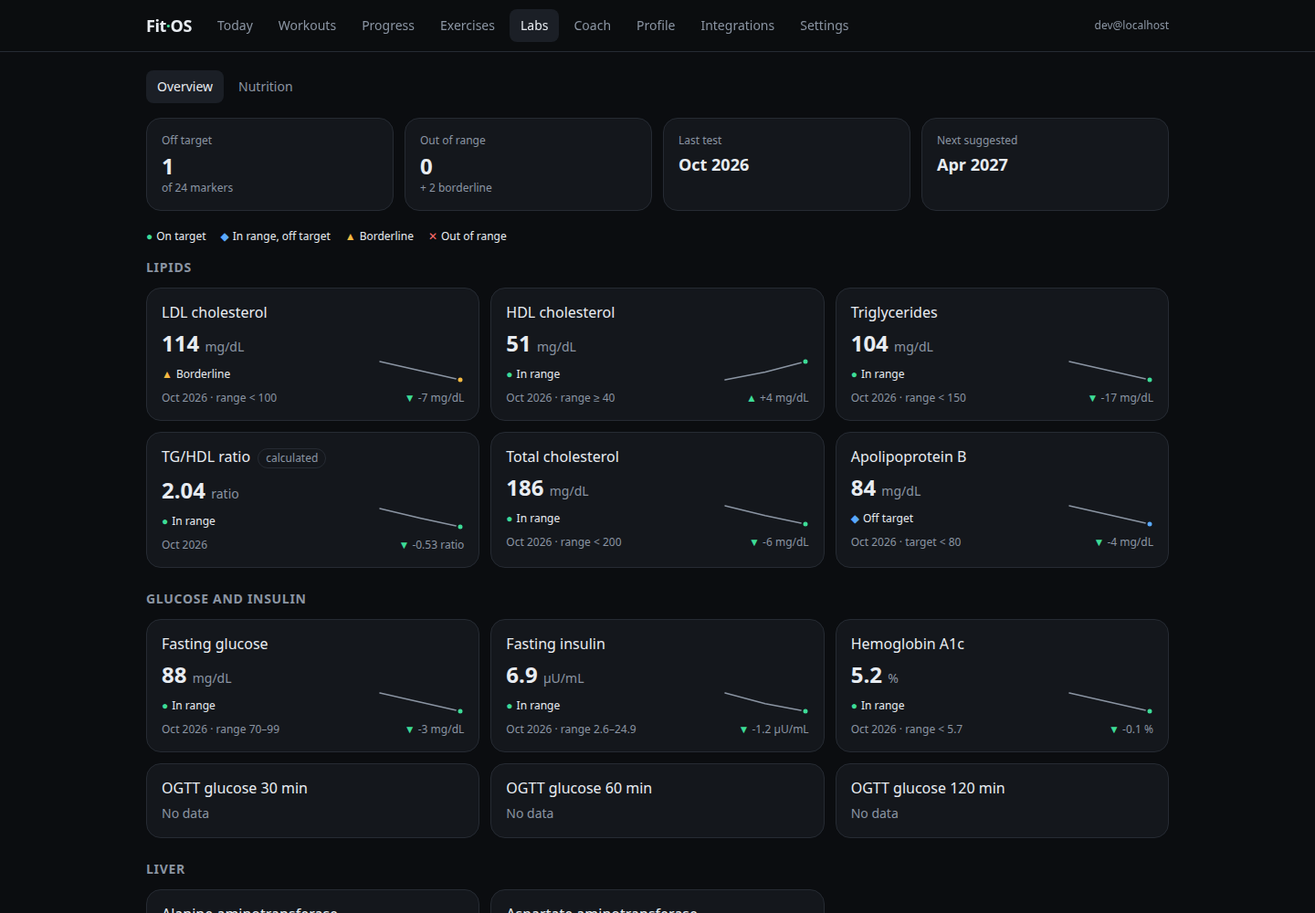
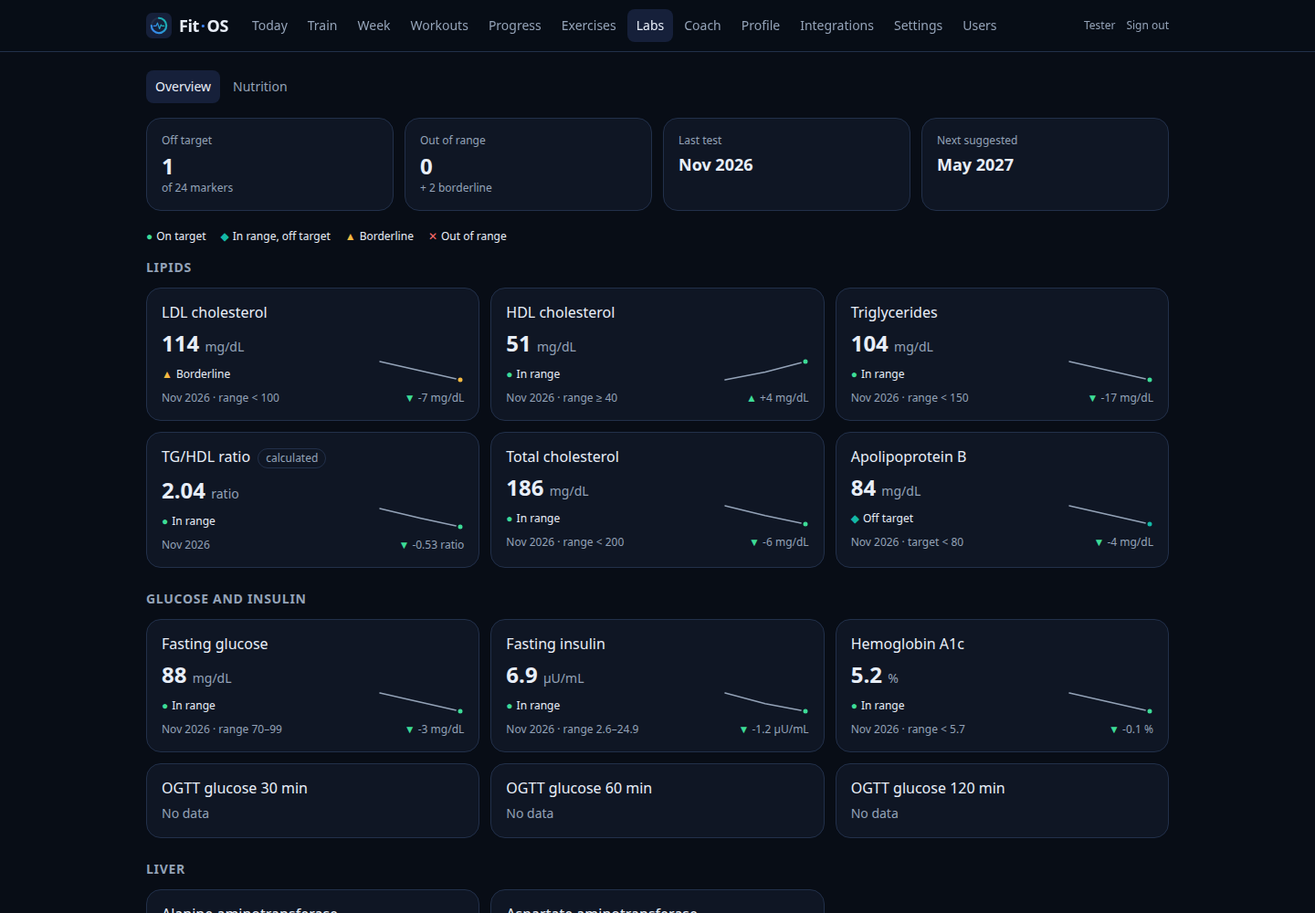
feat(brand): new mark (the recovery ring with a pulse) and the "Ocean" palette
- app/fitos/web/static/icons/icon.svg is the mark; docs/images/icon.html renders the app icons (full-bleed,
  inside the maskable safe zone) and the WhatsApp group picture from it. Header, login and favicon use it.
- Theme: blue brand (#3b82f6), teal second (#14b8a6, also "info"), deep navy surfaces. Green moves to a
  `good` token and keeps every status meaning: recovery's green band, labs "on target", improvements,
  "connected", muscles inside the weekly target.
- Banner and README screenshots re-rendered (synthetic demo, English).

diff --git a/docs/images/icon.html b/docs/images/icon.html
@@ -1,55 +1,33 @@
 <!doctype html>
 <!-- Source of the WhatsApp group picture (docs/images/group-icon.png, with the wordmark) and the app icons
-     (app/fitos/web/static/icons/*.png, "#mark": symbol only). Render: see docs/development.md#icons -->
+     (app/fitos/web/static/icons/*.png, "#mark": the symbol full-bleed, safe for maskable icons).
+     The symbol is app/fitos/web/static/icons/icon.svg. Render: see docs/development.md#icons -->
 <html><head><meta charset="utf-8"><style>
-  :root{--bg:#0b0d10;--panel:#14171c;--line:#262b33;--ink:#e8ecf1;--mute:#8b95a3;--accent:#3ddc97;--info:#5aa9ff}
+  :root{--bg:#080d16;--panel:#0f1624;--panel2:#16203a;--line:#22304a;--ink:#e8eef8;--mute:#94a3b8;--accent:#3b82f6;--teal:#14b8a6}
   *{box-sizing:border-box;margin:0}
   html,body{width:100vw;height:100vh;overflow:hidden;background:var(--bg)}
   body{font-family:"Inter","Segoe UI",Roboto,ui-sans-serif,system-ui,sans-serif;color:var(--ink);position:relative;
        display:grid;place-items:center}
   .glow{position:absolute;border-radius:50%;filter:blur(9vw)}
-  .g1{width:70vw;height:70vw;background:var(--accent);opacity:.22;left:15vw;top:8vw}
-  .g2{width:50vw;height:40vw;background:var(--info);opacity:.14;right:-12vw;bottom:-14vw}
+  .g1{width:70vw;height:70vw;background:var(--accent);opacity:.24;left:15vw;top:6vw}
+  .g2{width:50vw;height:40vw;background:var(--teal);opacity:.16;right:-12vw;bottom:-14vw}
   .grid{position:absolute;inset:0;background-image:linear-gradient(var(--line) 1px,transparent 1px),
         linear-gradient(90deg,var(--line) 1px,transparent 1px);background-size:5vw 5vw;opacity:.35;
         mask-image:radial-gradient(circle at 50% 50%,#000 25%,transparent 62%)}
-  .ring{position:absolute;width:76vw;height:76vw;border-radius:50%;border:.6vw solid rgba(61,220,151,.18)}
-  .stack{position:relative;display:flex;flex-direction:column;align-items:center;gap:2.4vw;margin-top:-2vw}
-  svg{width:62vw;height:auto;filter:drop-shadow(0 1.5vw 3vw rgba(0,0,0,.55))}
+  .stack{position:relative;display:flex;flex-direction:column;align-items:center;gap:2.6vw;margin-top:-2vw}
+  img{width:46vw;height:46vw;filter:drop-shadow(0 1.5vw 3vw rgba(0,0,0,.55))}
   .word{font-size:13.5vw;font-weight:800;letter-spacing:-.5vw;line-height:1}
-  .word span{color:var(--accent)}
+  .word span{background:linear-gradient(90deg,var(--accent),var(--teal));-webkit-background-clip:text;color:transparent}
   .sub{font-size:3.6vw;font-weight:600;letter-spacing:1.1vw;color:var(--mute);margin-top:-.4vw}
-  body.mark svg{width:72vw}
-  body.mark .word,body.mark .sub{display:none}
-  body.mark .ring{width:90vw;height:90vw}
+  /* #mark: the icon itself, full-bleed (the OS rounds or masks it) */
+  body.mark{background:#16203a}
+  body.mark .glow,body.mark .grid,body.mark .word,body.mark .sub{display:none}
+  body.mark img{position:fixed;left:50%;top:50%;width:112vw;height:112vw;transform:translate(-50%,-50%);filter:none}
 </style></head>
 <body>
-  <div class="glow g1"></div><div class="glow g2"></div><div class="grid"></div><div class="ring"></div>
+  <div class="glow g1"></div><div class="glow g2"></div><div class="grid"></div>
   <div class="stack">
-    <svg viewBox="0 0 240 120" aria-hidden="true">
-      <defs>
-        <linearGradient id="plate" x1="0" y1="0" x2="0" y2="1">
-          <stop offset="0" stop-color="#5df0b0"/><stop offset="1" stop-color="#22b877"/>
-        </linearGradient>
-        <linearGradient id="bar" x1="0" y1="0" x2="0" y2="1">
-          <stop offset="0" stop-color="#e8ecf1"/><stop offset="1" stop-color="#9aa4b1"/>
-        </linearGradient>
-      </defs>
-      <!-- bar -->
-      <rect x="40" y="54" width="160" height="12" rx="6" fill="url(#bar)"/>
-      <!-- plates, left and right -->
-      <rect x="14" y="22" width="22" height="76" rx="7" fill="url(#plate)"/>
-      <rect x="38" y="34" width="14" height="52" rx="5" fill="url(#plate)"/>
-      <rect x="4" y="44" width="10" height="32" rx="4" fill="#22b877"/>
-      <rect x="204" y="22" width="22" height="76" rx="7" fill="url(#plate)"/>
-      <rect x="188" y="34" width="14" height="52" rx="5" fill="url(#plate)"/>
-      <rect x="226" y="44" width="10" height="32" rx="4" fill="#22b877"/>
-      <!-- pulse over the bar -->
-      <polyline points="62,60 92,60 102,40 114,82 126,30 138,74 148,60 178,60" fill="none"
-                stroke="#0b0d10" stroke-width="11" stroke-linejoin="round" stroke-linecap="round"/>
-      <polyline points="62,60 92,60 102,40 114,82 126,30 138,74 148,60 178,60" fill="none"
-                stroke="#3ddc97" stroke-width="5.5" stroke-linejoin="round" stroke-linecap="round"/>
-    </svg>
+    <img src="../../app/fitos/web/static/icons/icon.svg" alt="">
     <div class="word">Fit<span>·</span>OS</div>
     <div class="sub">PERSONAL TRAINER</div>
   </div>

diff --git a/docs/images/banner.html b/docs/images/banner.html
@@ -1,7 +1,7 @@
 <!doctype html>
 <!-- Source of docs/images/banner.png. Render: see docs/development.md#banner -->
 <html><head><meta charset="utf-8"><style>
-  :root{--bg:#0b0d10;--panel:#14171c;--panel2:#1b1f26;--line:#262b33;--ink:#e8ecf1;--mute:#8b95a3;--accent:#3ddc97;--warn:#f5b942;--info:#5aa9ff;--wa:#1f3b2f}
+  :root{--bg:#080d16;--panel:#0f1624;--panel2:#16203a;--line:#22304a;--ink:#e8eef8;--mute:#94a3b8;--accent:#3b82f6;--warn:#f5b942;--info:#14b8a6;--wa:#1f3b2f}
   *{box-sizing:border-box;margin:0}
   html,body{width:1600px;height:620px;background:var(--bg);overflow:hidden}
   body{font-family:"Inter","Segoe UI",Roboto,ui-sans-serif,system-ui,sans-serif;color:var(--ink);position:relative}
@@ -10,8 +10,9 @@
   .g2{width:600px;height:420px;background:var(--info);right:-120px;bottom:-260px;opacity:.16}
   .grid{position:absolute;inset:0;background-image:linear-gradient(var(--line) 1px,transparent 1px),linear-gradient(90deg,var(--line) 1px,transparent 1px);background-size:40px 40px;opacity:.25;mask-image:radial-gradient(ellipse at 30% 50%,#000 20%,transparent 75%)}
   .left{position:absolute;left:90px;top:110px;width:660px}
-  .logo{font-size:112px;font-weight:800;letter-spacing:-4px;line-height:1}
-  .logo span{color:var(--accent)}
+  .logo{font-size:112px;font-weight:800;letter-spacing:-4px;line-height:1;display:flex;align-items:center;gap:26px}
+  .logo img{width:120px;height:120px;filter:drop-shadow(0 12px 30px rgba(0,0,0,.5))}
+  .logo span{background:linear-gradient(90deg,var(--accent),var(--info));-webkit-background-clip:text;color:transparent}
   .tag{font-size:34px;font-weight:600;margin-top:22px;line-height:1.25}
   .sub{font-size:22px;color:var(--mute);margin-top:18px;line-height:1.45}
   .chips{display:flex;gap:10px;margin-top:30px;flex-wrap:wrap}
@@ -46,7 +47,7 @@
   <div class="glow g1"></div><div class="glow g2"></div><div class="grid"></div>
 
   <div class="left">
-    <div class="logo">Fit<span>·</span>OS</div>
+    <div class="logo"><img src="../../app/fitos/web/static/icons/icon.svg" alt=""><div>Fit<span>·</span>OS</div></div>
     <div class="tag">Your gym coach lives in a WhatsApp group.</div>
     <div class="sub">Today's plan, every set logged, a swap when the machine is busy, and a dashboard for progress and lab results. Self-hosted.</div>
     <div class="chips">
@@ -74,11 +75,11 @@
     <div class="h2">Bench press · e1RM</div>
     <div class="big">92 kg<small>+6.5 in 8 wk</small></div>
     <svg width="356" height="110" viewBox="0 0 356 110">
-      <defs><linearGradient id="a" x1="0" x2="0" y1="0" y2="1"><stop offset="0" stop-color="#3ddc97" stop-opacity=".35"/><stop offset="1" stop-color="#3ddc97" stop-opacity="0"/></linearGradient></defs>
-      <line x1="0" y1="100" x2="356" y2="100" stroke="#262b33"/><line x1="0" y1="55" x2="356" y2="55" stroke="#262b33" stroke-dasharray="3 5"/>
+      <defs><linearGradient id="a" x1="0" x2="0" y1="0" y2="1"><stop offset="0" stop-color="#3b82f6" stop-opacity=".35"/><stop offset="1" stop-color="#3b82f6" stop-opacity="0"/></linearGradient></defs>
+      <line x1="0" y1="100" x2="356" y2="100" stroke="#22304a"/><line x1="0" y1="55" x2="356" y2="55" stroke="#22304a" stroke-dasharray="3 5"/>
       <path d="M0 92 L44 88 L88 84 L132 86 L176 72 L220 66 L264 58 L308 44 L352 30 L352 100 L0 100Z" fill="url(#a)"/>
-      <path d="M0 92 L44 88 L88 84 L132 86 L176 72 L220 66 L264 58 L308 44 L352 30" fill="none" stroke="#3ddc97" stroke-width="3" stroke-linejoin="round" stroke-linecap="round"/>
-      <circle cx="352" cy="30" r="6" fill="#3ddc97" stroke="#14171c" stroke-width="3"/>
+      <path d="M0 92 L44 88 L88 84 L132 86 L176 72 L220 66 L264 58 L308 44 L352 30" fill="none" stroke="#3b82f6" stroke-width="3" stroke-linejoin="round" stroke-linecap="round"/>
+      <circle cx="352" cy="30" r="6" fill="#3b82f6" stroke="#14171c" stroke-width="3"/>
     </svg>
     <div class="rings">
       <div class="ring"><div class="k">This week</div><div class="v">3 / 4</div></div>

diff --git a/app/fitos/web/templates/base.html b/app/fitos/web/templates/base.html
@@ -3,8 +3,9 @@
 <head>
   <meta charset="utf-8">
   <meta name="viewport" content="width=device-width, initial-scale=1, viewport-fit=cover">
-  <meta name="theme-color" content="#0b0d10">
+  <meta name="theme-color" content="#080d16">
   <title>{% block title %}{{ tab_label or "Fit-OS" }}{% endblock %} · Fit-OS</title>
+  <link rel="icon" type="image/svg+xml" href="/static/icons/icon.svg">
   <link rel="icon" type="image/png" href="/static/icons/icon-192.png">
   <!-- Installable from the phone's browser (Add to Home Screen): standalone window, own icon -->
   <link rel="manifest" href="/static/manifest.webmanifest" crossorigin="use-credentials">
@@ -17,16 +18,19 @@
   <script src="/static/vendor/htmx.min.js" defer></script>
   <style type="text/tailwindcss">
     @theme {
-      --color-bg: #0b0d10;
-      --color-panel: #14171c;
-      --color-panel2: #1b1f26;
-      --color-line: #262b33;
-      --color-ink: #e8ecf1;
-      --color-mute: #8b95a3;
-      --color-accent: #3ddc97;
+      /* "Ocean": blue brand, teal second; green stays only as the "good" status color */
+      --color-bg: #080d16;
+      --color-panel: #0f1624;
+      --color-panel2: #16203a;
+      --color-line: #22304a;
+      --color-ink: #e8eef8;
+      --color-mute: #94a3b8;
+      --color-accent: #3b82f6;
+      --color-teal: #14b8a6;
+      --color-good: #3ddc97;
       --color-warn: #f5b942;
       --color-bad: #ff6b6b;
-      --color-info: #5aa9ff;
+      --color-info: #14b8a6;
     }
     @layer base {
       body { @apply bg-bg text-ink antialiased; font-family: ui-sans-serif, system-ui, -apple-system, "Segoe UI", Roboto, sans-serif; }
@@ -36,7 +40,7 @@
     .card { @apply bg-panel border border-line rounded-2xl p-4; }
     .h2 { @apply text-sm font-semibold uppercase tracking-wider text-mute mb-3; }
     .btn { @apply inline-flex items-center gap-2 rounded-xl px-3 py-2 text-sm font-medium bg-panel2 border border-line hover:border-accent/60 transition; }
-    .btn-accent { @apply bg-accent text-black border-accent hover:brightness-110; }
+    .btn-accent { @apply bg-accent text-white border-accent hover:brightness-110; }
     .chip { @apply inline-flex items-center rounded-full px-2 py-0.5 text-xs border border-line text-mute; }
     .input { @apply w-full rounded-xl bg-panel2 border border-line px-3 py-2 text-sm focus:outline-none focus:border-accent; }
     .label { @apply block text-xs text-mute mb-1; }
@@ -54,7 +58,7 @@
   {% if not bare %}
   <header class="sticky top-0 z-30 bg-bg/90 backdrop-blur border-b border-line">
     <div class="max-w-6xl mx-auto px-4 flex items-center gap-4 h-14">
-      <a href="/" class="font-bold tracking-tight text-lg">Fit<span class="text-accent">·</span>OS</a>
+      <a href="/" class="flex items-center gap-2 font-bold tracking-tight text-lg"><img src="/static/icons/icon.svg" alt="" class="w-7 h-7">Fit<span class="text-accent -mx-1.5">·</span>OS</a>
       <nav class="tabnav hidden md:flex gap-0.5 overflow-x-auto min-w-0 flex-1">
         {% for key, label, href in tabs %}
           <a href="{{ href }}" class="{% if key == tab %}on{% endif %}">{{ label }}</a>

diff --git a/app/fitos/web/templates/rest.html b/app/fitos/web/templates/rest.html
@@ -6,7 +6,7 @@
     <div class="text-xl font-bold num">{{ t.now|num if t.now is not none else '—' }}<span class="text-sm text-mute font-normal"> {{ unit }}</span></div>
     {% if t.pct is not none %}
     {% set up = t.pct > 0 %}{% set good = (up and good_up) or (not up and not good_up) %}
-    <div class="text-xs num {% if t.pct|abs < 3 %}text-mute{% elif good %}text-accent{% else %}text-bad{% endif %}">{{ '▲' if up else '▼' }} {{ t.pct|abs|int }} % <span class="text-mute">{{ _("vs tus 60 días ({n})", n=t.base|num) }}</span></div>
+    <div class="text-xs num {% if t.pct|abs < 3 %}text-mute{% elif good %}text-good{% else %}text-bad{% endif %}">{{ '▲' if up else '▼' }} {{ t.pct|abs|int }} % <span class="text-mute">{{ _("vs tus 60 días ({n})", n=t.base|num) }}</span></div>
     {% endif %}
   </div>
 {%- endmacro %}
@@ -55,7 +55,7 @@
       <div class="rounded-xl bg-panel2 px-3 py-2">
         <div class="text-[11px] text-mute">{{ _(st.label) }}</div>
         <div class="text-lg font-bold num">{{ st.now|num }}<span class="text-xs text-mute font-normal"> {{ st.unit }}</span></div>
-        {% if st.prev is not none %}<div class="text-[11px] num {% if st.trend == 'good' %}text-accent{% elif st.trend == 'bad' %}text-warn{% else %}text-mute{% endif %}">{% if st.trend %}{{ '▲' if st.up else '▼' }} {% endif %}{{ _("antes {v}", v=st.prev|num) }}</div>{% endif %}
+        {% if st.prev is not none %}<div class="text-[11px] num {% if st.trend == 'good' %}text-good{% elif st.trend == 'bad' %}text-warn{% else %}text-mute{% endif %}">{% if st.trend %}{{ '▲' if st.up else '▼' }} {% endif %}{{ _("antes {v}", v=st.prev|num) }}</div>{% endif %}
       </div>
       {% endfor %}
     </div>
@@ -158,12 +158,12 @@
 (function () {
   const D = {{ charts_json|safe }};
   const css = getComputedStyle(document.documentElement);
-  const FALLBACK = { accent: '#3ddc97', bad: '#ff6b6b', info: '#5aa9ff', warn: '#f5b942', ink: '#e8ecf1', mute: '#8b95a3', line: '#262b33', panel: '#14171c', panel2: '#1b1f26' };
+  const FALLBACK = { accent: '#3b82f6', good: '#3ddc97', bad: '#ff6b6b', info: '#14b8a6', warn: '#f5b942', ink: '#e8eef8', mute: '#94a3b8', line: '#22304a', panel: '#0f1624', panel2: '#16203a' };
   const c = n => css.getPropertyValue('--color-' + n).trim() || FALLBACK[n];
   const MONTHS = {{ months_short()|tojson }};
   const dm = iso => { const [y, m, d] = iso.split('-').map(Number); return d + ' ' + MONTHS[m - 1]; };
   const ym = (iso, i, all) => { const [y, m] = iso.split('-').map(Number); const first = i === 0 || all[i - 1].slice(0, 4) !== iso.slice(0, 4); return MONTHS[m - 1] + (first ? ' ' + String(y).slice(2) : ''); };
-  const BAND = { green: c('accent'), yellow: c('warn'), red: c('bad') };
+  const BAND = { green: c('good'), yellow: c('warn'), red: c('bad') };
   const bandOf = v => v >= 67 ? BAND.green : v >= 34 ? BAND.yellow : BAND.red;
   const T = {
     rec: {{ _("Recuperación")|tojson }}, avg7: {{ _("Promedio 7 d")|tojson }}, trained: {{ _("Entrenaste")|tojson }},

diff --git a/app/fitos/web/templates/progress_exercises.html b/app/fitos/web/templates/progress_exercises.html
@@ -35,7 +35,7 @@
         <td class="num"><span class="text-mute whitespace-nowrap">{{ fmt_day_month(r.first_date) }}</span> {{ describe(r.first_top, r.first_top.exercise) if r.first_top else "" }}</td>
         <td class="num"><span class="text-mute whitespace-nowrap">{{ fmt_day_month(r.last_date) }}</span> {{ describe(r.last_top, r.last_top.exercise) if r.last_top else "" }}</td>
         <td class="num text-right whitespace-nowrap" title="{{ fmt_date(r.best_date) if r.best_date else '' }}">{% if r.best is not none %}{{ r.best|num(1 if r.kind == 'e1rm' else 0) }} {{ unit }}{% else %}—{% endif %}</td>
-        <td class="num text-right whitespace-nowrap">{% if r.change_pct is none %}<span class="text-mute">—</span>{% elif r.change_pct > 0 %}<span class="text-accent">▲</span> +{{ r.change_pct|num(1) }} %{% elif r.change_pct < 0 %}<span class="text-bad">▼</span> {{ r.change_pct|num(1) }} %{% else %}<span class="text-mute">=</span> 0 %{% endif %}</td>
+        <td class="num text-right whitespace-nowrap">{% if r.change_pct is none %}<span class="text-mute">—</span>{% elif r.change_pct > 0 %}<span class="text-good">▲</span> +{{ r.change_pct|num(1) }} %{% elif r.change_pct < 0 %}<span class="text-bad">▼</span> {{ r.change_pct|num(1) }} %{% else %}<span class="text-mute">=</span> 0 %{% endif %}</td>
         <td class="w-28">
           {% if r.spark.points %}
           <a href="/progreso?exercise_id={{ r.id }}" title="{{ _("Ver la curva") }}">
@@ -66,7 +66,7 @@
     <div class="grid grid-cols-3 gap-2 mt-2 text-xs num">
       <div><div class="text-mute">{{ _("Última") }} · {{ fmt_day_month(r.last_date) }}</div>{{ describe(r.last_top, r.last_top.exercise) if r.last_top else "—" }}</div>
       <div><div class="text-mute">{{ _("Mejor") }}</div>{% if r.best is not none %}{{ r.best|num(1 if r.kind == 'e1rm' else 0) }} {{ unit }}{% else %}—{% endif %}</div>
-      <div><div class="text-mute">{{ _("Cambio") }}</div>{% if r.change_pct is none %}—{% elif r.change_pct > 0 %}<span class="text-accent">▲</span> +{{ r.change_pct|num(1) }} %{% elif r.change_pct < 0 %}<span class="text-bad">▼</span> {{ r.change_pct|num(1) }} %{% else %}= 0 %{% endif %}</div>
+      <div><div class="text-mute">{{ _("Cambio") }}</div>{% if r.change_pct is none %}—{% elif r.change_pct > 0 %}<span class="text-good">▲</span> +{{ r.change_pct|num(1) }} %{% elif r.change_pct < 0 %}<span class="text-bad">▼</span> {{ r.change_pct|num(1) }} %{% else %}= 0 %{% endif %}</div>
     </div>
   </li>
   {% endfor %}

diff --git a/app/fitos/web/templates/progress.html b/app/fitos/web/templates/progress.html
@@ -26,8 +26,8 @@
     <div class="flex items-center gap-2 text-sm mb-1.5" title="{{ b.label }}: {{ _("{n} sets", n=b.value|num) }}">
       <span class="w-24 text-mute truncate">{{ b.label }}</span>
       <div class="flex-1 h-3 bg-panel2 rounded-full relative overflow-hidden">
-        <div class="absolute inset-y-0 bg-accent/10" style="left: {{ lo / hi * 100 }}%; right: 0"></div>
-        <div class="absolute inset-y-0 left-0 rounded-full {% if b.status == 'ok' %}bg-accent{% elif b.status == 'high' %}bg-warn{% else %}bg-info/70{% endif %}" style="width: {{ b.pct }}%"></div>
+        <div class="absolute inset-y-0 bg-good/10" style="left: {{ lo / hi * 100 }}%; right: 0"></div>
+        <div class="absolute inset-y-0 left-0 rounded-full {% if b.status == 'ok' %}bg-good{% elif b.status == 'high' %}bg-warn{% else %}bg-info/70{% endif %}" style="width: {{ b.pct }}%"></div>
       </div>
       <span class="w-10 text-right num">{{ b.value|num }}</span>
     </div>
@@ -96,12 +96,12 @@
       <div class="rounded-xl bg-panel2 px-3 py-2">
         <div class="text-xs text-mute">{{ label }}</div>
         <div class="text-lg num">{{ val|num(1) }} <span class="text-xs text-mute">kg</span></div>
-        {% if d is not none %}<div class="text-xs num {% if good == 'down' and d < 0 or good == 'up' and d > 0 %}text-accent{% elif good and d != 0 %}text-warn{% else %}text-mute{% endif %}">{% if d > 0 %}+{% endif %}{{ d|num(1) }} kg</div>{% endif %}
+        {% if d is not none %}<div class="text-xs num {% if good == 'down' and d < 0 or good == 'up' and d > 0 %}text-good{% elif good and d != 0 %}text-warn{% else %}text-mute{% endif %}">{% if d > 0 %}+{% endif %}{{ d|num(1) }} kg</div>{% endif %}
       </div>
       {% endfor %}
     </div>
     {% endif %}
-    <p class="text-sm mb-3 {% if recomp.verdict in ('recomp', 'lean_gain') %}text-accent{% elif recomp.verdict in ('fat_gain', 'cut_losing_lean') %}text-warn{% endif %}">{{ recomp.label }}</p>
+    <p class="text-sm mb-3 {% if recomp.verdict in ('recomp', 'lean_gain') %}text-good{% elif recomp.verdict in ('fat_gain', 'cut_losing_lean') %}text-warn{% endif %}">{{ recomp.label }}</p>
     {% if recomp.n %}
     <div class="grid md:grid-cols-2 gap-4">
       <div><div class="text-xs text-mute">{{ _("Grasa (kg)") }}</div><div id="fat-kg" class="h-44"></div></div>

diff --git a/app/fitos/web/templates/labs/detail.html b/app/fitos/web/templates/labs/detail.html
@@ -70,7 +70,7 @@
       <h2 class="h2">{{ _("Alimentos") }}</h2>
       {% if d.food_positive %}
       <h3 class="text-xs text-mute mb-1">{{ _("A favor") }}</h3>
-      <ul class="flex flex-wrap gap-1.5 mb-3">{% for f in d.food_positive %}<li class="chip text-ink"><span class="text-accent mr-1" aria-hidden="true">+</span>{{ f }}</li>{% endfor %}</ul>
+      <ul class="flex flex-wrap gap-1.5 mb-3">{% for f in d.food_positive %}<li class="chip text-ink"><span class="text-good mr-1" aria-hidden="true">+</span>{{ f }}</li>{% endfor %}</ul>
       {% endif %}
       {% if d.food_negative %}
       <h3 class="text-xs text-mute mb-1">{{ _("En contra") }}</h3>
@@ -110,12 +110,12 @@
 (() => {
   const D = JSON.parse(document.getElementById("labs-chart-data").textContent);
   const L = JSON.parse(document.getElementById("labs-chart-i18n").textContent);
-  const T = { surface: "#14171c", grid: "#262b33", mute: "#8b95a3", ink: "#e8ecf1", line: "#8b95a3",
+  const T = { surface: "#0f1624", grid: "#22304a", mute: "#94a3b8", ink: "#e8eef8", line: "#94a3b8",
               accent: "#3ddc97", warn: "#f5b942" };
   // Estado = color + forma: nunca solo color.
   const ST = {
     optimal: { c: "#3ddc97", s: "circle", g: "●" },
-    in_range: { c: "#5aa9ff", s: "diamond", g: "◆" },
+    in_range: { c: "#14b8a6", s: "diamond", g: "◆" },
     borderline: { c: "#f5b942", s: "triangle", g: "▲" },
     out_of_range: { c: "#ff6b6b", g: "✕",
       s: "path://M3,0L10,7L17,0L20,3L13,10L20,17L17,20L10,13L3,20L0,17L7,10L0,3Z" },
@@ -169,7 +169,7 @@
       axisLabel: { color: T.mute, fontSize: 11 },
     },
     tooltip: {
-      trigger: "axis", backgroundColor: "#1b1f26", borderColor: T.grid, textStyle: { color: T.ink, fontSize: 12 },
+      trigger: "axis", backgroundColor: "#16203a", borderColor: T.grid, textStyle: { color: T.ink, fontSize: 12 },
       axisPointer: { type: "line", lineStyle: { color: T.mute, width: 1 } },
       formatter: (ps) => {
         const p = ps[0].data.p, s = ST[p.status];

diff --git a/app/fitos/web/templates/labs/_macros.html b/app/fitos/web/templates/labs/_macros.html
@@ -1,7 +1,7 @@
 {# Estado: color + forma (segundo canal) + texto. El texto va en tinta, nunca en el color del estado. #}
 {% set STATUS = {
-  "optimal": ("●", "text-accent", "#3ddc97"),
-  "in_range": ("◆", "text-info", "#5aa9ff"),
+  "optimal": ("●", "text-good", "#3ddc97"),
+  "in_range": ("◆", "text-info", "#14b8a6"),
   "borderline": ("▲", "text-warn", "#f5b942"),
   "out_of_range": ("✕", "text-bad", "#ff6b6b"),
 } %}
@@ -15,7 +15,7 @@
 {% macro delta(d, tone, unit, decimals) -%}
   {%- if d is not none -%}
   <span class="text-xs text-mute num">
-    <span class="{{ 'text-accent' if tone == 'good' else ('text-bad' if tone == 'bad' else 'text-mute') }}" aria-hidden="true">{{ '▲' if d > 0 else ('▼' if d < 0 else '＝') }}</span>
+    <span class="{{ 'text-good' if tone == 'good' else ('text-bad' if tone == 'bad' else 'text-mute') }}" aria-hidden="true">{{ '▲' if d > 0 else ('▼' if d < 0 else '＝') }}</span>
     {{ '+' if d > 0 else '' }}{{ d | num(decimals) }} {{ unit }}
   </span>
   {%- endif -%}
@@ -23,8 +23,8 @@
 
 {% macro spark(s, status) -%}
   <svg width="{{ s.w }}" height="{{ s.h }}" viewBox="0 0 {{ s.w }} {{ s.h }}" aria-hidden="true" class="shrink-0">
-    <polyline points="{{ s.points }}" fill="none" stroke="#8b95a3" stroke-width="1.5" stroke-linejoin="round" stroke-linecap="round" />
-    <circle cx="{{ s.last[0] }}" cy="{{ s.last[1] }}" r="3.5" fill="{{ STATUS[status][2] }}" stroke="#14171c" stroke-width="2" />
+    <polyline points="{{ s.points }}" fill="none" stroke="#94a3b8" stroke-width="1.5" stroke-linejoin="round" stroke-linecap="round" />
+    <circle cx="{{ s.last[0] }}" cy="{{ s.last[1] }}" r="3.5" fill="{{ STATUS[status][2] }}" stroke="#0f1624" stroke-width="2" />
   </svg>
 {%- endmacro %}
 

diff --git a/app/fitos/web/templates/today.html b/app/fitos/web/templates/today.html
@@ -145,7 +145,7 @@
     <div class="h2">{{ _("Semana") }}</div>
     <div class="grid grid-cols-7 gap-1 text-center mb-4">
       {% for d in days %}
-      <div class="rounded-lg py-2 text-xs {% if d.done %}bg-accent text-black font-semibold{% elif d.date == today %}border border-accent/60{% elif d.planned %}bg-panel2{% else %}text-mute{% endif %}" title="{{ fmt_date(d.date) }}">{{ d.label }}</div>
+      <div class="rounded-lg py-2 text-xs {% if d.done %}bg-accent text-white font-semibold{% elif d.date == today %}border border-accent/60{% elif d.planned %}bg-panel2{% else %}text-mute{% endif %}" title="{{ fmt_date(d.date) }}">{{ d.label }}</div>
       {% endfor %}
     </div>
     {% if rec %}
@@ -157,7 +157,7 @@
     {% for b in bars %}
     <div class="flex items-center gap-2 text-sm mb-1.5">
       <span class="w-24 text-mute truncate">{{ b.label }}</span>
-      <div class="flex-1 h-2 bg-panel2 rounded-full overflow-hidden"><div class="h-full rounded-full {% if b.status == 'ok' %}bg-accent{% elif b.status == 'high' %}bg-warn{% else %}bg-info/70{% endif %}" style="width: {{ b.pct }}%"></div></div>
+      <div class="flex-1 h-2 bg-panel2 rounded-full overflow-hidden"><div class="h-full rounded-full {% if b.status == 'ok' %}bg-good{% elif b.status == 'high' %}bg-warn{% else %}bg-info/70{% endif %}" style="width: {{ b.pct }}%"></div></div>
       <span class="w-8 text-right num">{{ b.value|num }}</span>
     </div>
     {% endfor %}

diff --git a/app/fitos/web/templates/_body_map.html b/app/fitos/web/templates/_body_map.html
@@ -36,10 +36,10 @@
   :root { --map-sil: #3b424d; --map-none: #4a525e; --map-ready: #3ddc97; --map-recovering: #f5b942;
           --map-fatigued: #ff6b6b; --map-low: #2c4a6e; --map-mid: #3d78b5; --map-target: #5aa9ff; --map-over: #a8d4ff; }
   svg .sil path { fill: var(--map-sil); }
-  svg .mus path { stroke: #0b0d10; stroke-width: 3; stroke-linejoin: round; }
+  svg .mus path { stroke: #080d16; stroke-width: 3; stroke-linejoin: round; }
   svg .mus .vol { stroke: none; pointer-events: none; }
   svg .mus { cursor: pointer; }
-  svg .mus:hover path:not(.vol), svg .mus.on path:not(.vol) { stroke: #e8ecf1; stroke-width: 5; }
+  svg .mus:hover path:not(.vol), svg .mus.on path:not(.vol) { stroke: #e8eef8; stroke-width: 5; }
   .swatch { display: inline-block; width: .75rem; height: .75rem; border-radius: .2rem; vertical-align: -1px; }
 </style>
 {%- endmacro %}

diff --git a/app/fitos/web/templates/integrations.html b/app/fitos/web/templates/integrations.html
@@ -4,7 +4,7 @@
     <div class="w-10 h-10 shrink-0 rounded-xl bg-bg border border-line grid place-items-center text-xl" aria-hidden="true">{{ icon }}</div>
     <div class="flex-1 min-w-0">
       <div class="font-semibold flex flex-wrap items-center gap-2">{{ name }}
-        {% if badge %}<span class="chip !py-0 text-[11px] {% if tone == 'ok' %}!text-accent !border-accent/40{% elif tone == 'warn' %}!text-warn !border-warn/40{% endif %}">{{ badge }}</span>{% endif %}</div>
+        {% if badge %}<span class="chip !py-0 text-[11px] {% if tone == 'ok' %}!text-good !border-good/40{% elif tone == 'warn' %}!text-warn !border-warn/40{% endif %}">{{ badge }}</span>{% endif %}</div>
       <div class="text-xs text-mute mt-0.5">{{ desc }}</div>
     </div>
   </div>

diff --git a/app/fitos/web/templates/labs/nutrition.html b/app/fitos/web/templates/labs/nutrition.html
@@ -16,7 +16,7 @@
     <div class="mt-1">{{ status_chip(it.status, it.status_label) }}</div>
     {% if it.food_positive %}
     <h3 class="text-xs text-mute uppercase tracking-wide mt-3 mb-1">{{ _("A favor") }}</h3>
-    <ul class="flex flex-wrap gap-1.5">{% for f in it.food_positive %}<li class="chip text-ink"><span class="text-accent mr-1" aria-hidden="true">+</span>{{ f }}</li>{% endfor %}</ul>
+    <ul class="flex flex-wrap gap-1.5">{% for f in it.food_positive %}<li class="chip text-ink"><span class="text-good mr-1" aria-hidden="true">+</span>{{ f }}</li>{% endfor %}</ul>
     {% endif %}
     {% if it.food_negative %}
     <h3 class="text-xs text-mute uppercase tracking-wide mt-3 mb-1">{{ _("En contra") }}</h3>
